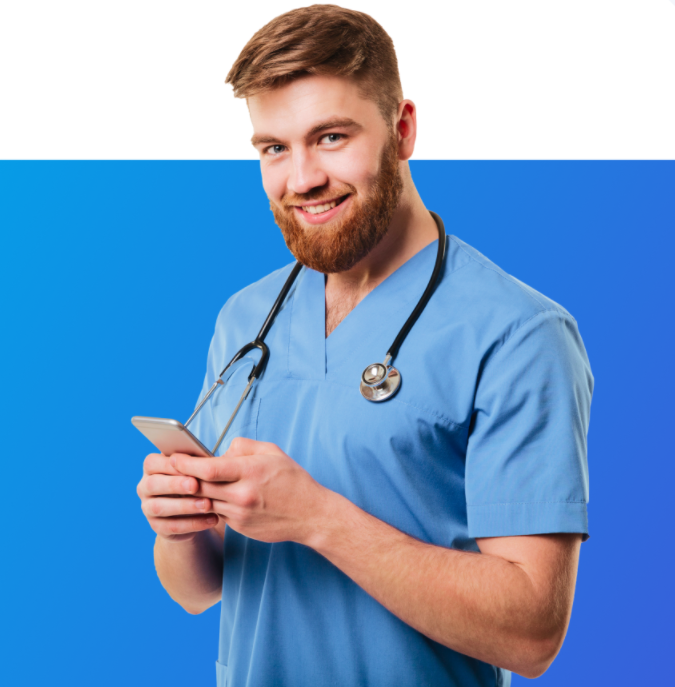
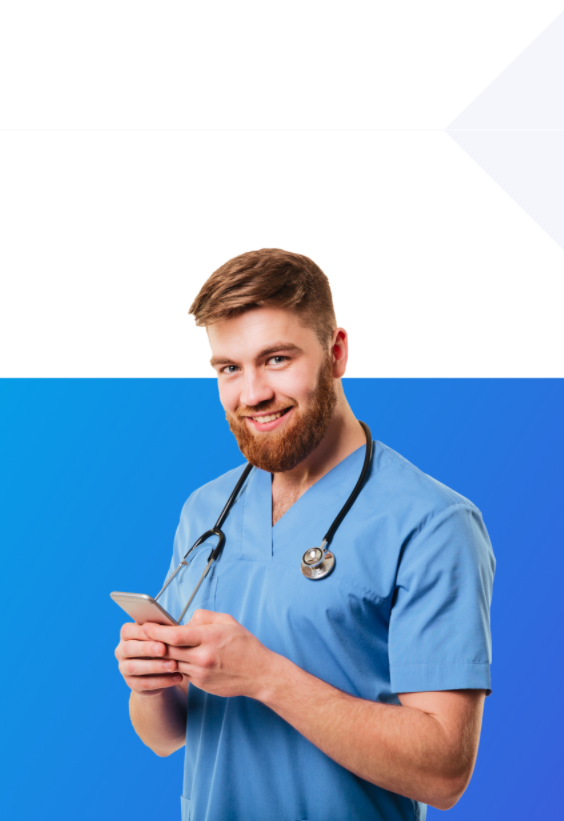
update: section4 done

diff --git a/mainPage.html b/mainPage.html
@@ -148,6 +148,66 @@
             </div>
     </div>
 </section>
+<section class="main4">
+    <div>
+        <h2 class="main3-h2">Contacto de Emergencia</h2>
+        <p class=" txt1">Contacta por alguno de los medios mostrados 
+            abajo si tú o alguien de tu familia no se siente bien y tiene síntomas 
+        similares al COVID-19.</p> 
+        <br>
+        <div class="main4-flex">
+            <div class="main2-info main4-contact">
+                <div class="main4">
+                    <div class="main4-i">
+                        <i class="fa fa-phone"></i>
+                    </div>
+                    <div class="main4-info">
+                        <h3>Llama</h3>
+                        <p>55-12345678</p>
+                    </div>
+                </div>
+                <button class="btn-main4">Llama ahora</button>
+            </div>
+            <div class="main2-info main4-contact">
+                <div class="main4">
+                    <div class="main4-i">
+                        <i class="fa fa-commenting"></i>
+                    </div>
+                    <div class="main4-info">
+                        <h3>Chat</h3>
+                        <p>55-12345678</p>
+                    </div>
+                </div>
+                <button class="btn-main4">Chatea ahora</button>
+            </div>
+            <div class="main2-info main4-contact">
+                <div class="main4">
+                    <div class="main4-i">
+                        <i class="fa fa-video-camera"></i>
+                    </div>
+                    <div class="main4-info">
+                        <h3>Videollamada</h3>
+                        <p>55-12345678</p>
+                    </div>
+                </div>
+                <button class="btn-main4">Videollamada ahora</button>
+            </div>
+            <div class="main2-info main4-contact">
+                <div class="main4">
+                    <div class="main4-i">
+                        <i class="fa fa-envelope"></i>
+                    </div>
+                    <div class="main4-info">
+                        <h3>Mensaje</h3>
+                        <p>55-12345678</p>
+                    </div>
+                </div>
+                <button class="btn-main4">Mensaje ahora</button>
+            </div>
+        </div>   
+    </div>
+    <img src="./assets/img/doctor3.png">
+</section>
     <footer>
         <br>
         <br>
@@ -160,7 +220,7 @@
             <p class="ft-txt">@2022 Vacunación Innovacción. Todos los derechos reservados</p>
         </div>
         <div class="ft-2">
-            <h3>Acerca de</h3>
+            <h3 class="ft-h3">Acerca de</h3>
         </div>
         <div class="ft-2">
             <h3>Compañía</h3>

diff --git a/styles.css b/styles.css
@@ -6,6 +6,7 @@ body{
     font-size: 18pt;
     color: #3150ca;
     padding-left: 20px;
+    padding-top: 20px;
 }
 .topnav {
     display: inline;
@@ -52,7 +53,7 @@ body{
     text-align: left;
     font-size: 10pt;
     font-weight: 600;
-    margin: 50px;
+    margin: 10%;
     width: 300px;
   }
   .list-icon{
@@ -86,7 +87,7 @@ body{
     padding: 10px 20px;
   }
   .schedule{
-    width: 620px;
+    width: 800px;
     background-color: #ffffffF0;
     border-radius: 10px;  
     padding: 20px 20px;
@@ -97,7 +98,7 @@ body{
   }
   .form-data{
     display: flex;
-    width: 700px;
+    width: 900px;
   }
   .loc-data{
       flex:1;
@@ -119,6 +120,7 @@ body{
     color: #1f3d72;
     background-color: transparent;
     font-family: Arial, Helvetica, sans-serif;
+    margin-left: 15%;
   }
 .v-brands{
     display: flex;
@@ -129,10 +131,10 @@ body{
     flex:1;
     margin: 10px;
 }
-.btn-submit{
+.btn-submit, .btn-main4:hover{
     background-color: #2e4ecc;
     color: white;
-    font-size: 8pt;
+    font-size: 9pt;
     font-weight: bold;
     padding: 10px 20px;
     border: 0px;
@@ -150,6 +152,7 @@ body{
   font-size: 20pt;
   color: #1f3d72;
   margin: 50px;
+  padding-top: 20px;
 }
 .main2-div{
   display: flex;
@@ -200,7 +203,8 @@ body{
 .main3 img{
   flex:1;
   width: 150px;
-  max-width: 50%;
+  max-height: 633px;
+  max-width: 452px;
   height: 100%;
 }
 .main3 div{
@@ -282,8 +286,64 @@ body{
   padding: 5%;
   width: 300px;
 }
+.main4{
+  display: flex;
+  width: 100%;
+  justify-content: space-around;
+  margin: 5%;
+}
+.main4 img{
+  flex:1;
+  width: 150px;
+  max-height: 658px;
+  max-width: 452px;
+  height: 100%;
+}
+.main4-flex{
+  display: flex;
+  width: 100%;
+  flex-wrap: wrap;
+  flex-direction: row;
+}
+.main4-flex > div {
+  display: flex; 
+  flex-basis: calc(35% - 40px);  
+  justify-content: center;
+  flex-direction: column;
+}
+.main4-contact{
+  padding: 25px;
+  width: 50px;
+}
+.btn-main4{
+    background-color: #f1f5ff;
+    color: #2e4ecc;
+    font-size: 9pt;
+    font-weight: bold;
+    padding: 10px 20px;
+    border: 0px;
+    border-radius: 5px;
+}
+.main4-i{
+  height: 32.5px;
+  flex: 1;
+}
+.main4-info{
+  flex: 4;
+}
+.main4-info h3{
+  color: #1f3d72;
+  font-weight: 600;
+  font-size: 12pt;
+  padding-left: 10pt;
+  margin-top: 0;
+}
+.main4-info p{
+  padding-left: 10pt;
+}
 footer{
     background-color: #eef3ff;
+    padding-left: 30px;
 }
 .ft-p{
   width: 150px;
@@ -318,4 +378,7 @@ footer{
   text-align: left;
   margin: 5%;
   padding: 10px 20px;
+}
+.ft-h3{
+  padding: 10px 10px !important;
 }
